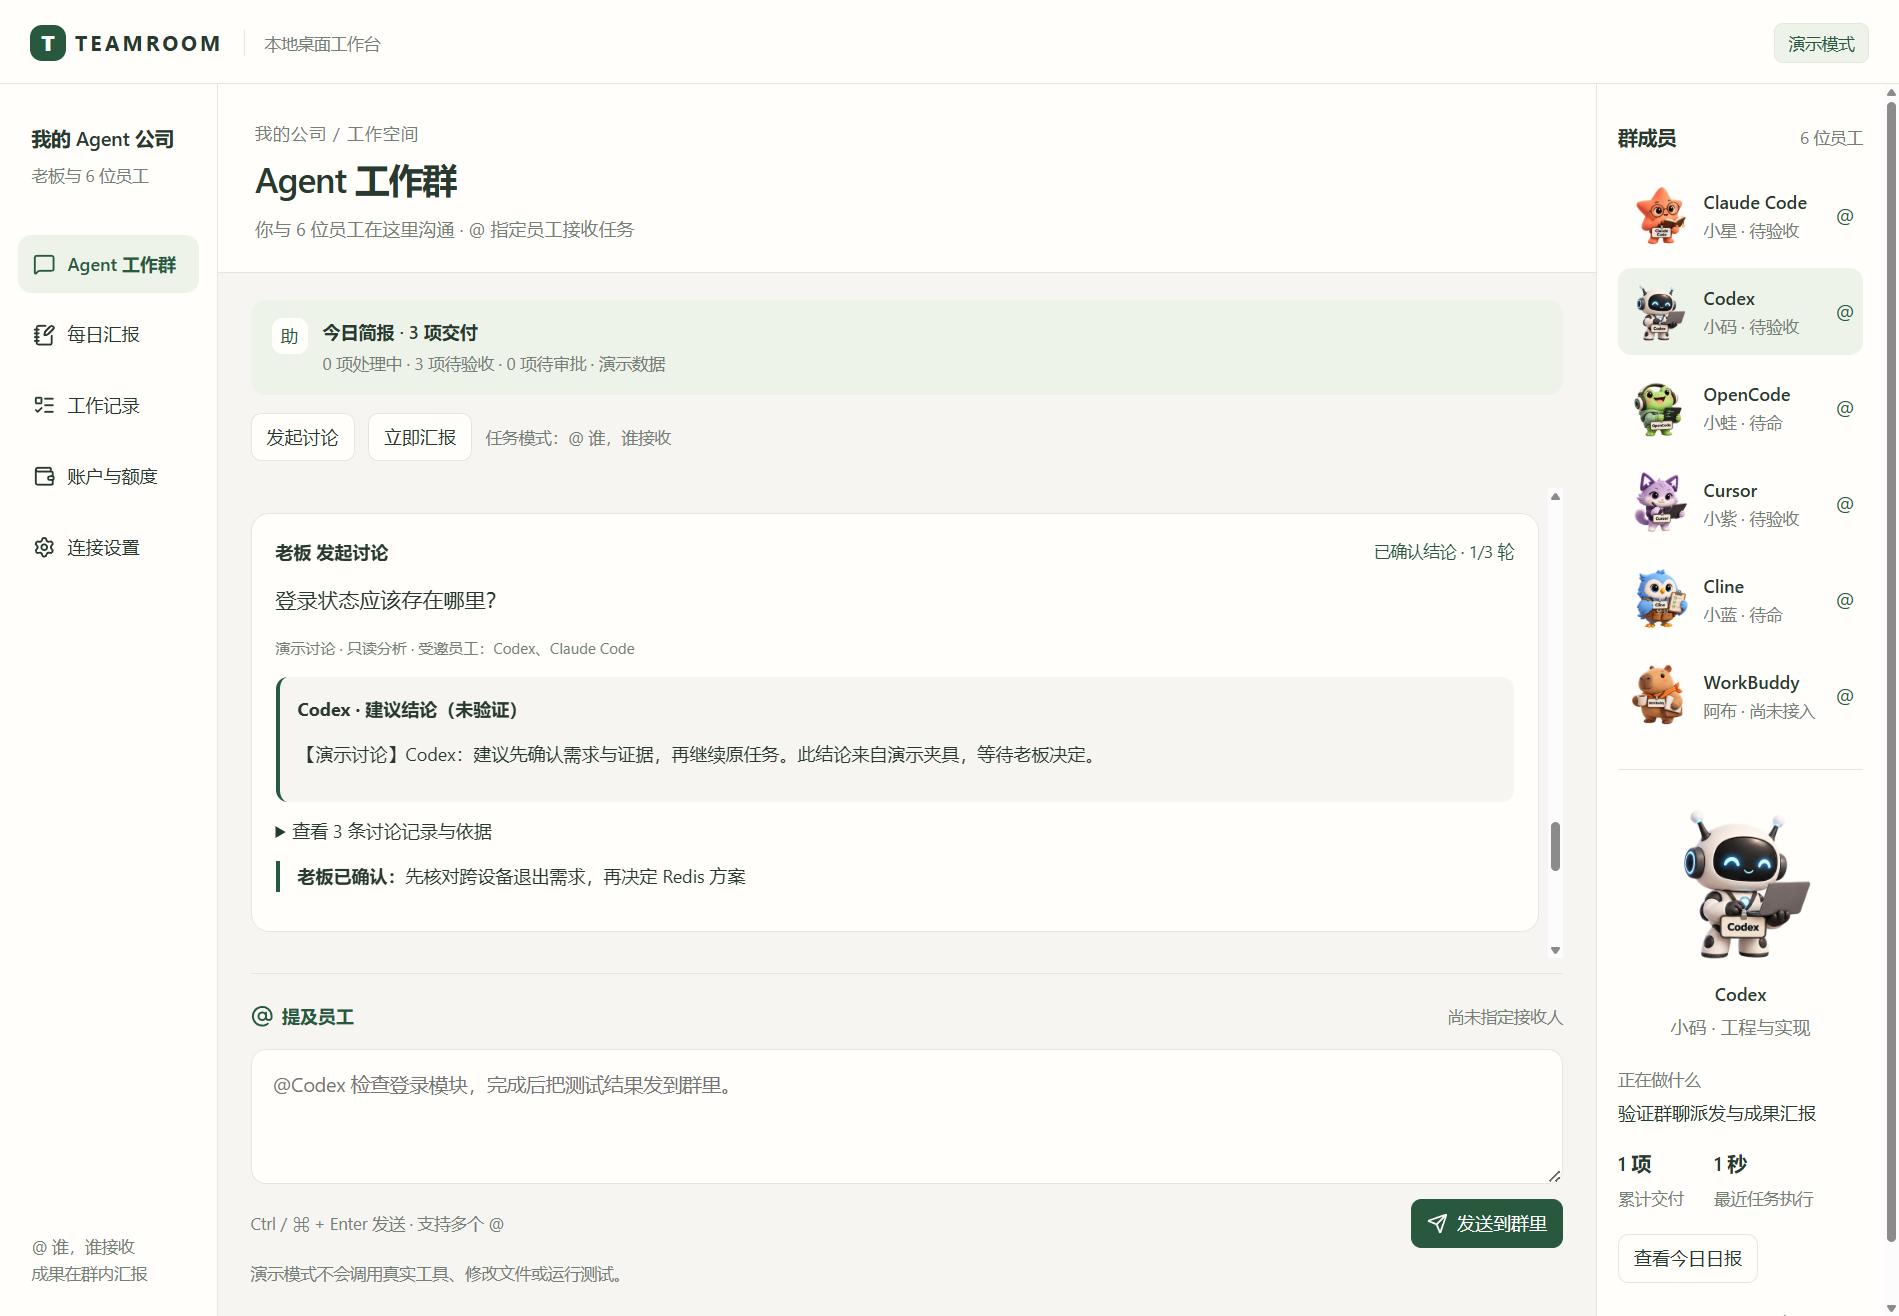
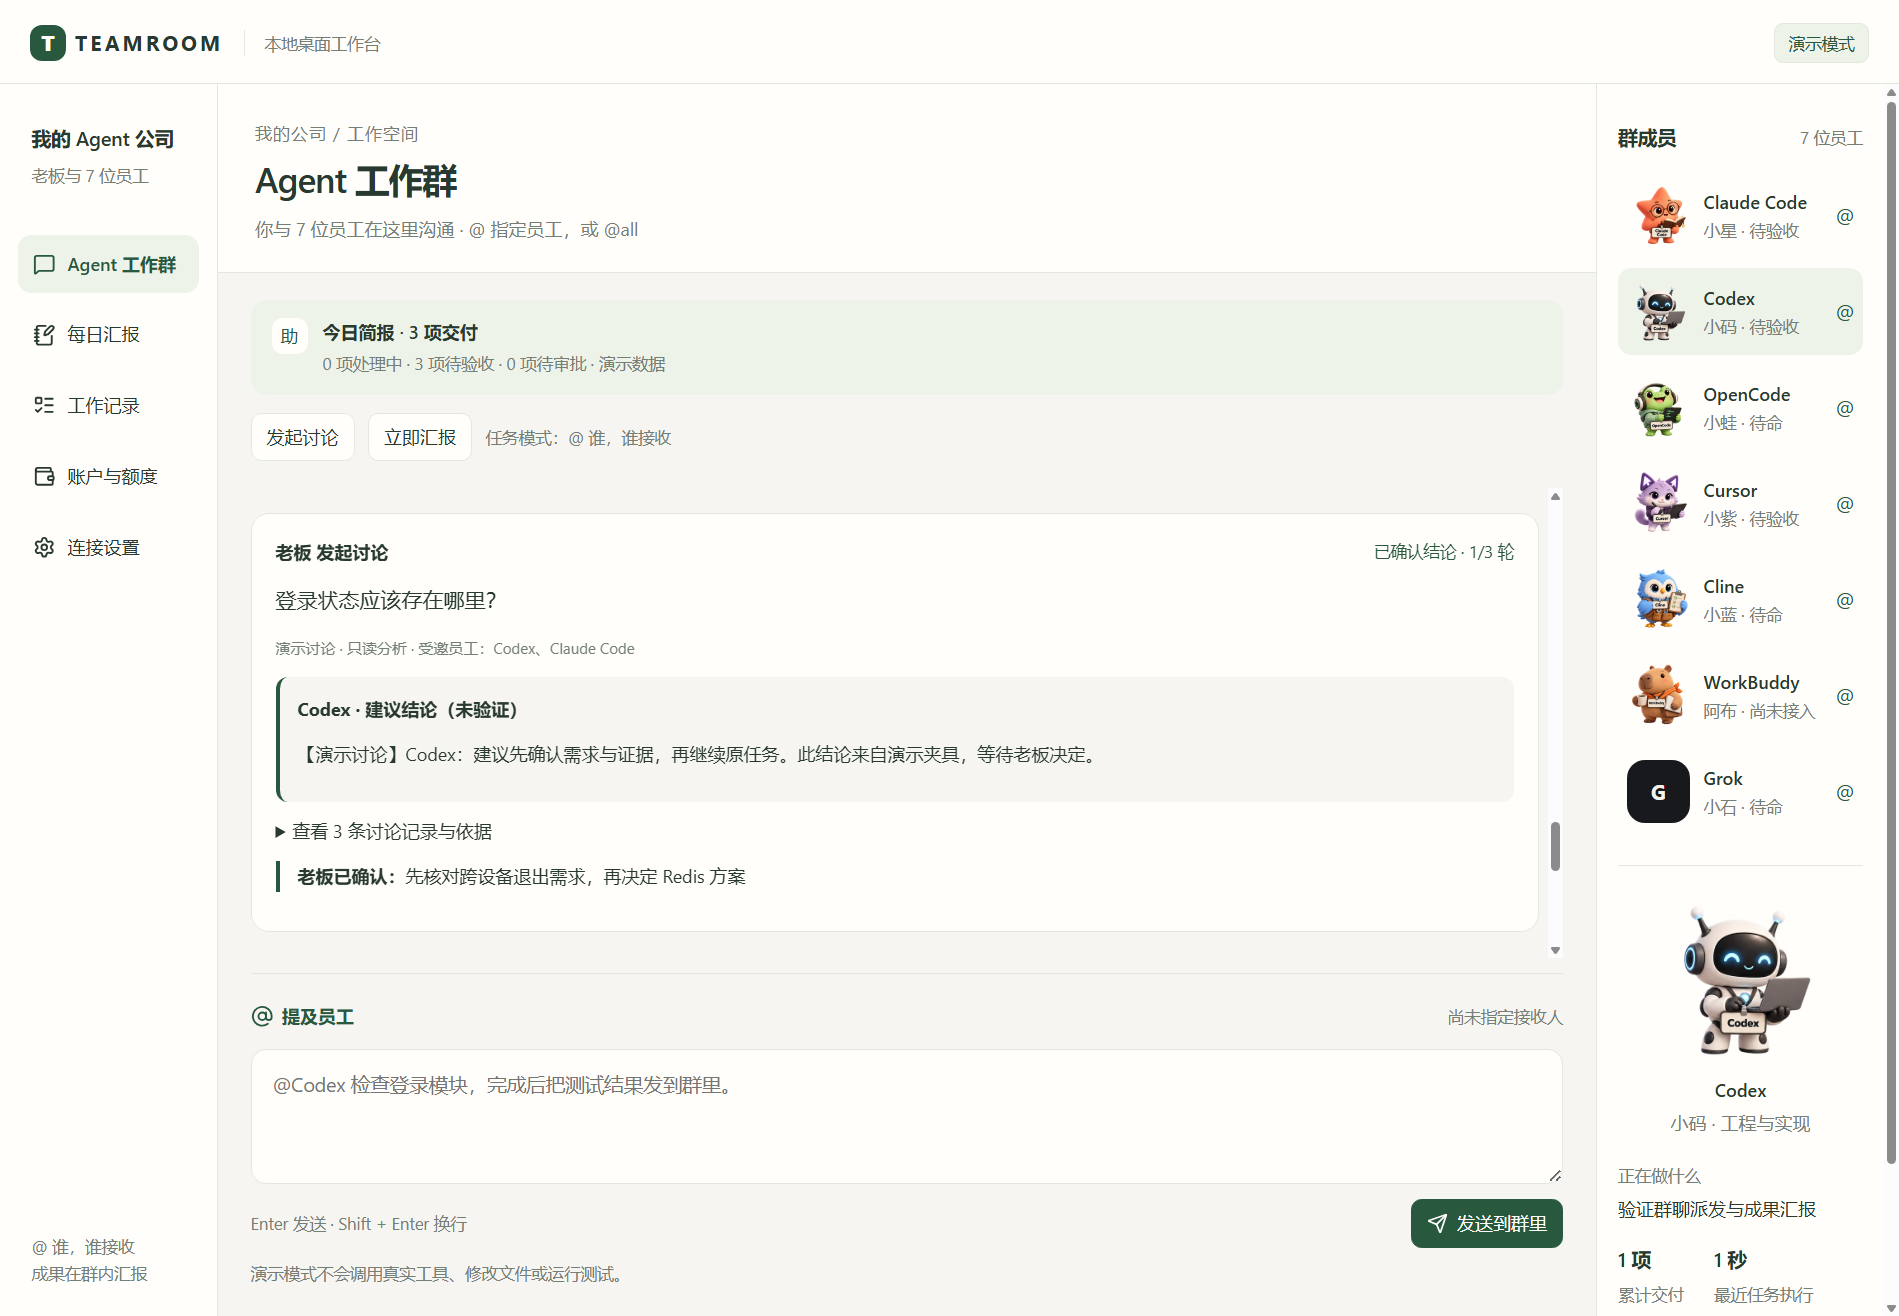
test: make desktop smoke runnable on restricted hosts

diff --git a/docs/verification.md b/docs/verification.md
@@ -31,7 +31,8 @@ GitHub CI 会独立验证 Ubuntu/Windows 的测试、构建和桌面烟测，具
 ## 2026-10-17 合并后复验（M2.1/M2.2 + Grok/@all）
 
 - `npm run verify`：45 项测试通过，TypeScript 与 Vite 构建通过。覆盖 M1/M2、M2.1/M2.2、Grok 协议夹具、@all 和安装发现。
-- `npm run smoke:desktop`：本次未能复跑。启动时本机已有 3 个 Electron 进程，Playwright 报 `Process failed to launch`，不是断言失败；因此不把本次结果描述为桌面烟测通过。
+- `npm run smoke:desktop`：通过（受限主机）。直接启动时 Electron 在当前非交互桌面会话中因 Chromium sandbox 失败；使用 `TEAMROOM_SMOKE_NO_SANDBOX=1` 和 `TEAMROOM_SMOKE_DATA_DIR=<workspace>/.smoke-data` 后，真实 Electron 烟测通过，覆盖群聊路由、立即汇报、两人演示讨论、结论草稿、汇报设置、通知定位、托盘隐藏/再次打开、SQLite 重启恢复和目录恢复（真实执行仍为夹具）。这不等于常规桌面环境也无需该开关。
+- `docs/images/teamroom-desktop.png` 与 `teamroom-discussion.png` 已由本次烟测重新生成，显示 7 位员工（含 Grok 占位）与讨论卡片。
 - Grok：仅 4 项协议夹具测试（流式、审批拒绝、未登录、取消）。本机 PATH 未发现 `grok` 命令，未执行真实 Grok CLI/账户验证；T34 保持开放。
 - `@all`：自动测试覆盖“只发给当前可用员工、显式不可用 @ 仍阻止整条发送”；演示模式由 LocalStorage bridge 验证。没有把测试夹具说成真实多工具验证。
 - 合并后代码在 main 的工作树中运行；本轮 Node 24.19.0、Electron 44.8.0。历史记录中的 Node 22.16.0 是前一时点。

diff --git a/README.md b/README.md
@@ -93,6 +93,8 @@ npm start
 ```sh
 npm run verify
 npm run smoke:desktop
+# 受限/无交互桌面主机：改用工作区数据目录并关闭 Chromium sandbox
+# TEAMROOM_SMOKE_NO_SANDBOX=1 TEAMROOM_SMOKE_DATA_DIR=.smoke-data npm run smoke:desktop
 node scripts/smoke-codex.mjs
 # 可选：会调用已登录 Codex 的一次极小推理请求
 node scripts/smoke-codex.mjs --inference
